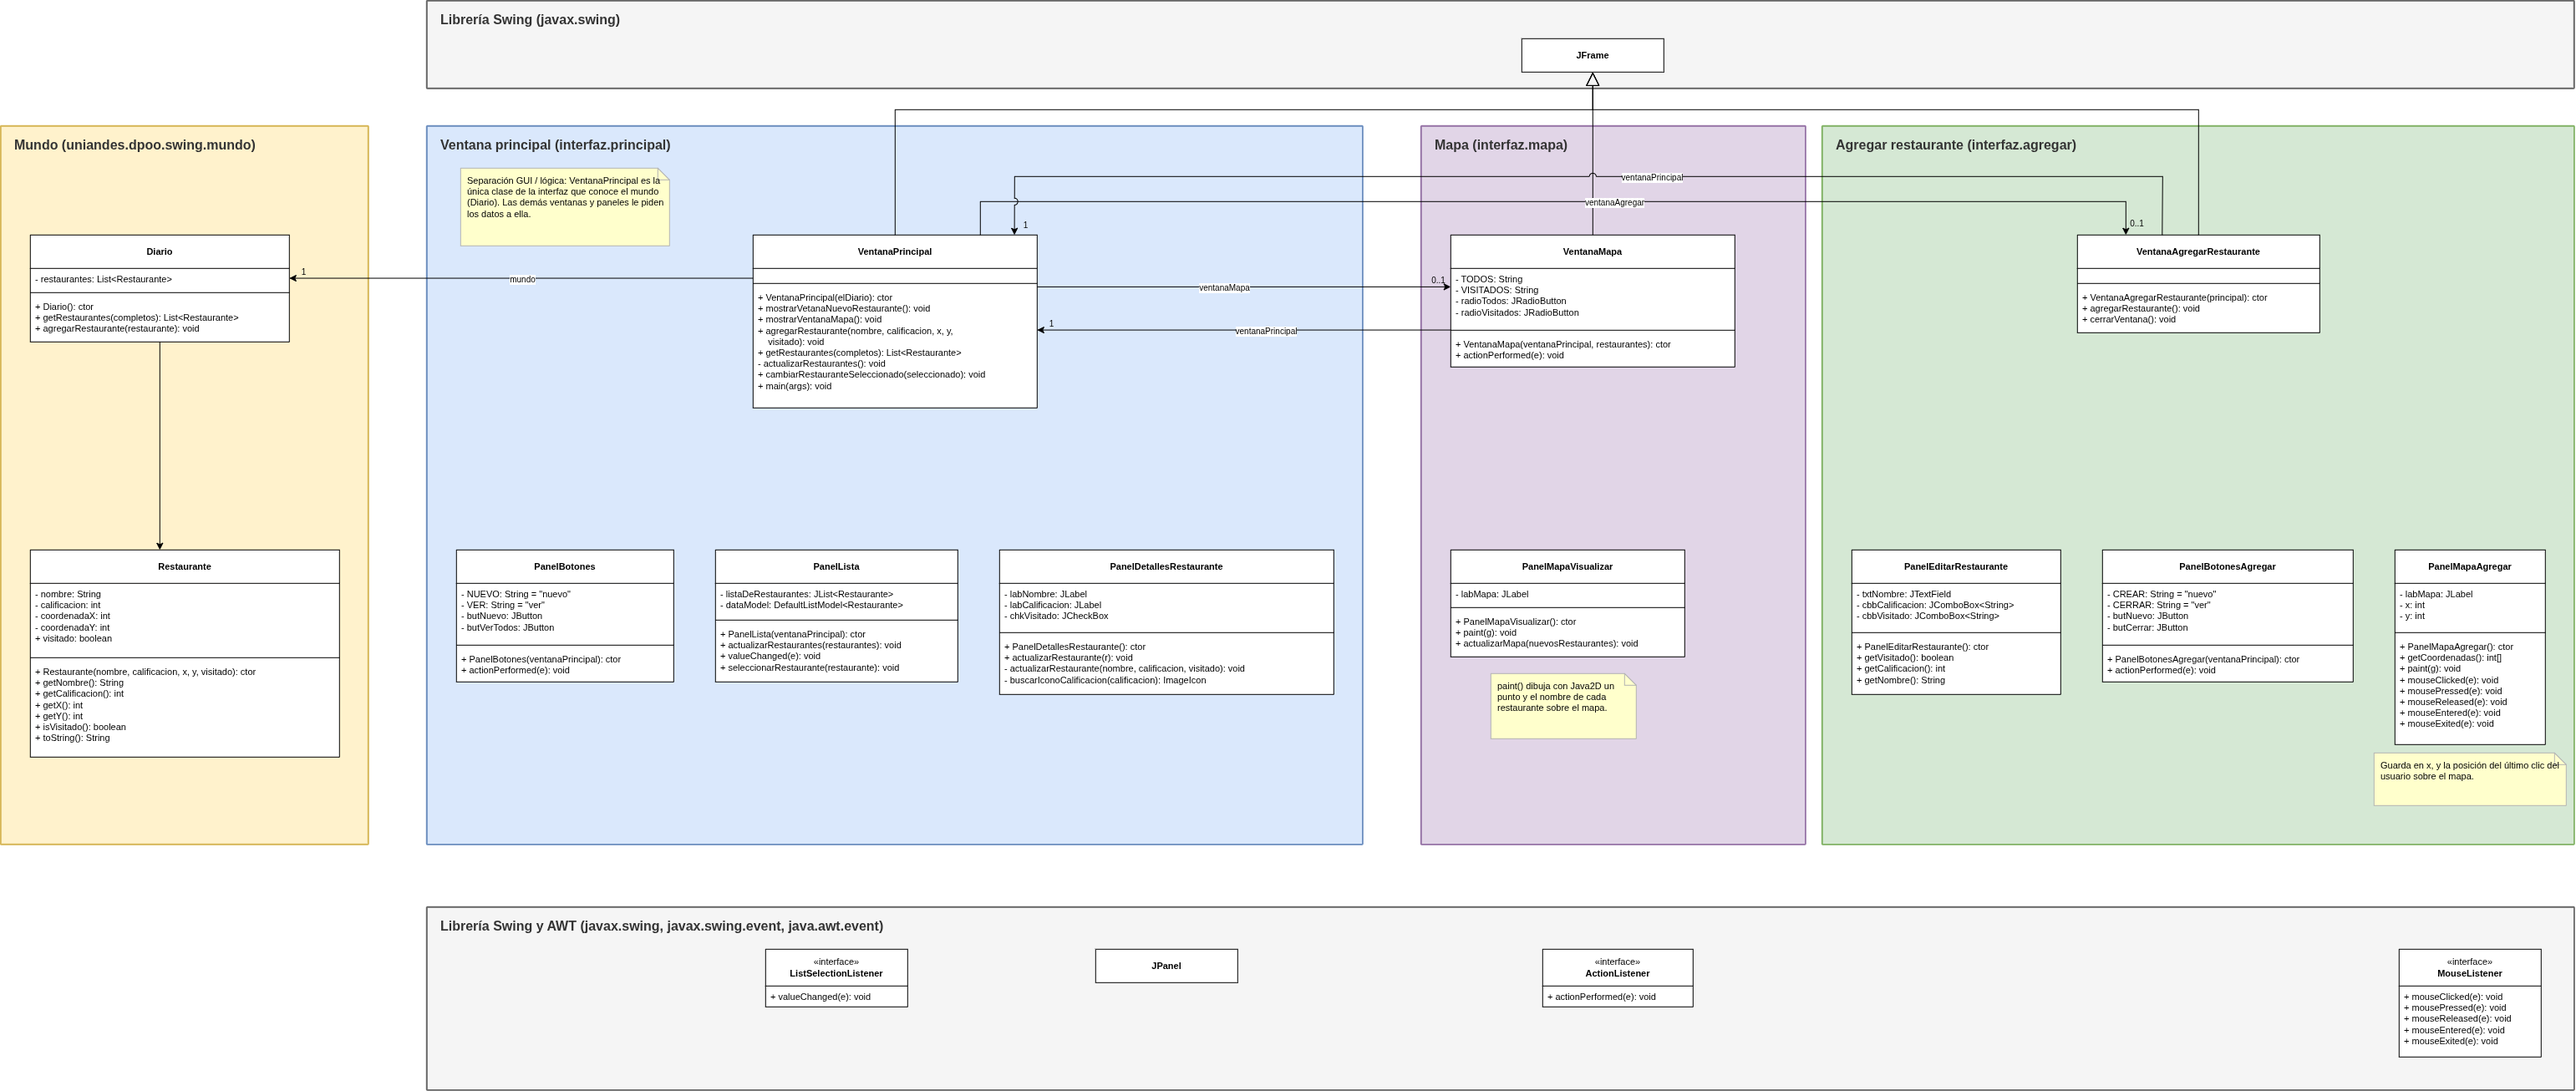
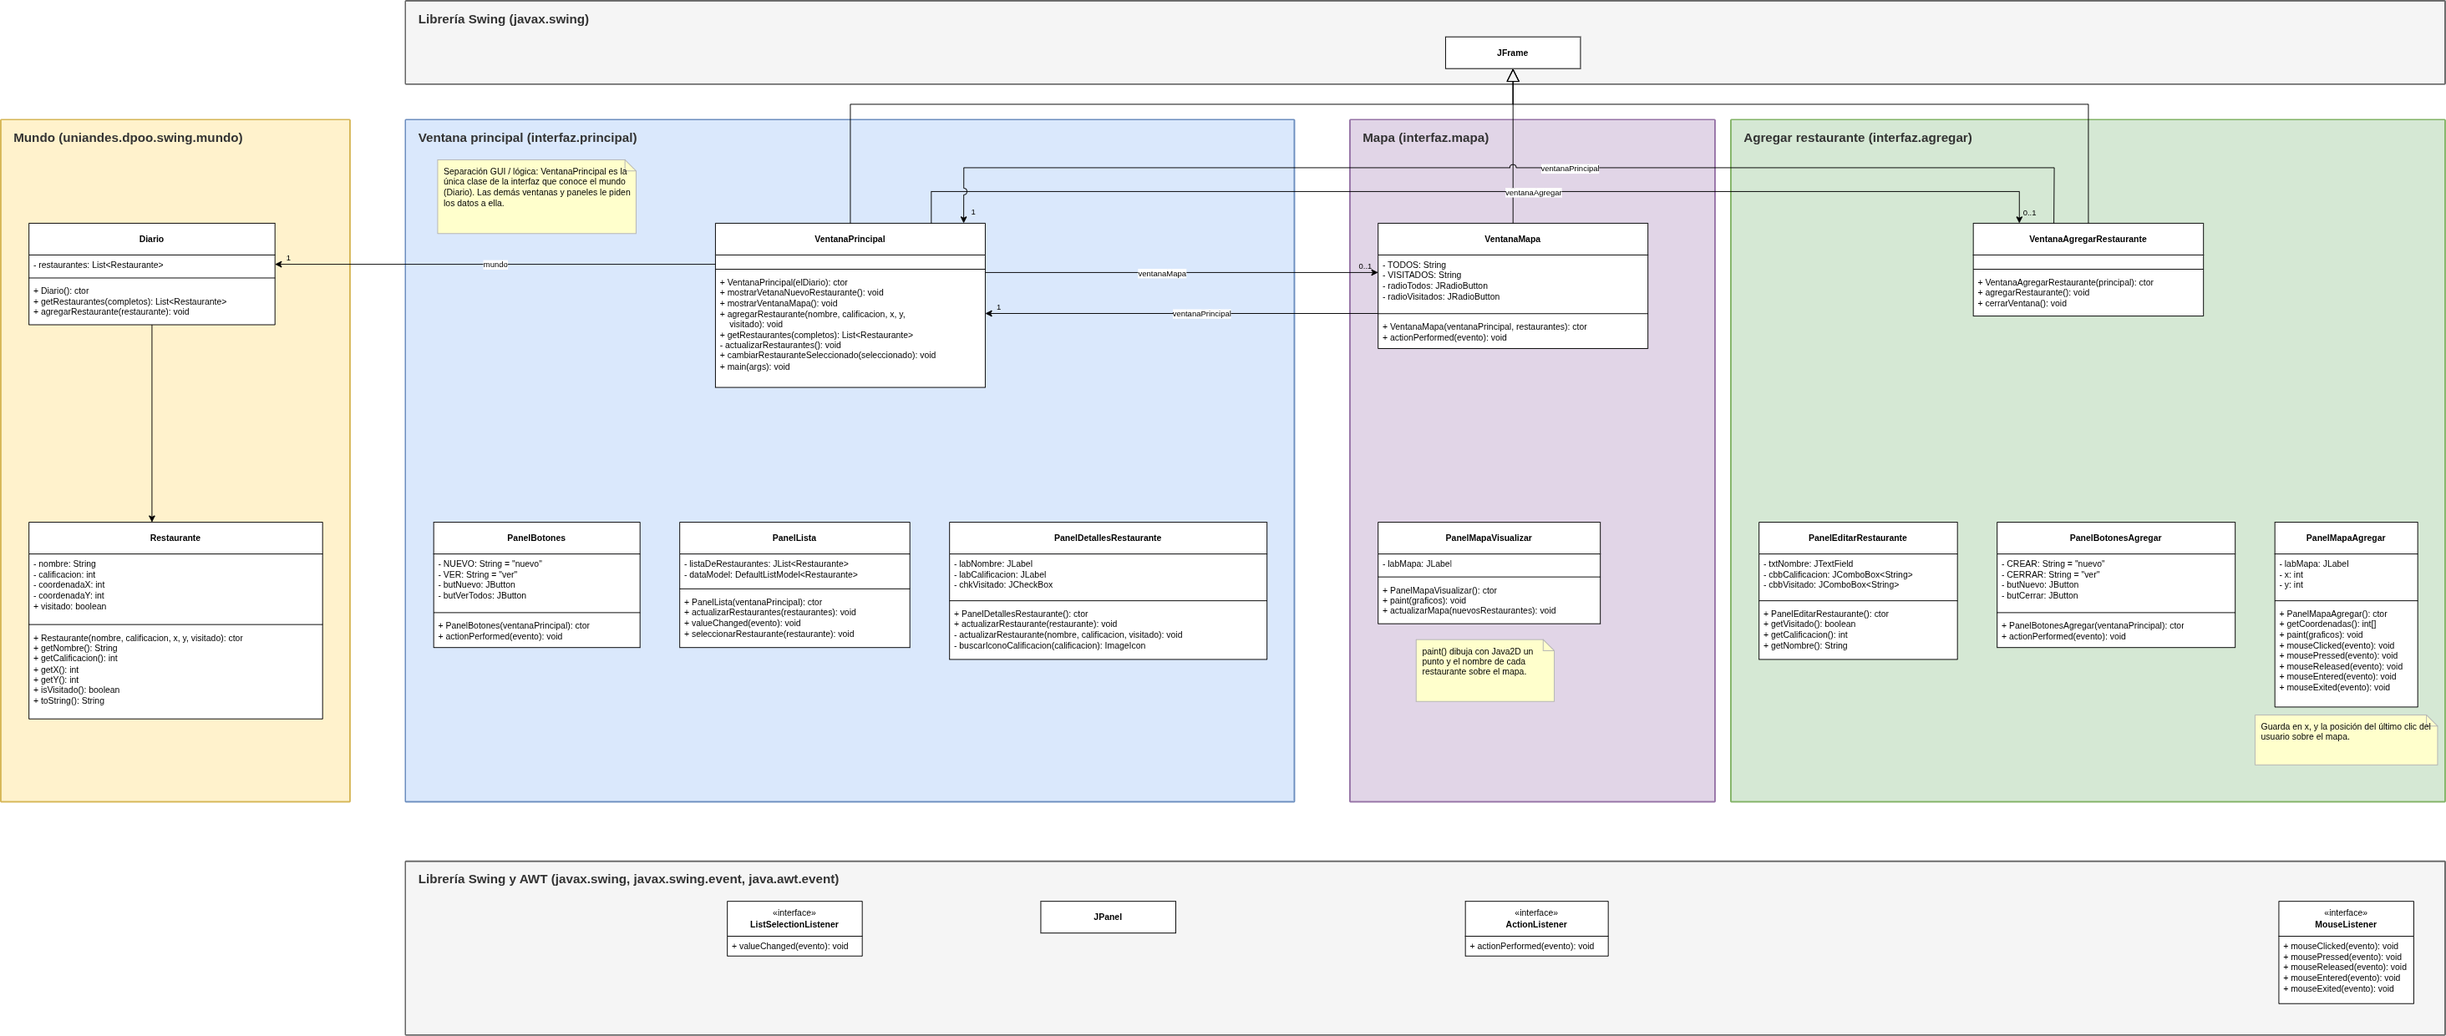
Cambios  Finales

diff --git a/src/uniandes/dpoo/swing/interfaz/agregar/PanelMapaAgregar.java b/src/uniandes/dpoo/swing/interfaz/agregar/PanelMapaAgregar.java
@@ -50,41 +50,41 @@ public class PanelMapaAgregar extends JPanel implements MouseListener
     }
 
     @Override
-    public void paint(Graphics g)
+    public void paint(Graphics graficos)
     {
-        super.paint(g);
+        super.paint(graficos);
 
         // Pinta un círculo rojo en la posición designada para el restaurante
-        Graphics2D g2d = (Graphics2D)g;
+        Graphics2D g2d = (Graphics2D)graficos;
         g2d.setColor(Color.red);
         g2d.fillOval(x - 3, y - 3, 7, 7);
     }
 
     @Override
-    public void mouseClicked(MouseEvent e)
+    public void mouseClicked(MouseEvent evento)
     {
-        this.x = e.getX();
-        this.y = e.getY();
+        this.x = evento.getX();
+        this.y = evento.getY();
         repaint();
     }
 
     @Override
-    public void mousePressed(MouseEvent e)
+    public void mousePressed(MouseEvent evento)
     {
     }
 
     @Override
-    public void mouseReleased(MouseEvent e)
+    public void mouseReleased(MouseEvent evento)
     {
     }
 
     @Override
-    public void mouseEntered(MouseEvent e)
+    public void mouseEntered(MouseEvent evento)
     {
     }
 
     @Override
-    public void mouseExited(MouseEvent e)
+    public void mouseExited(MouseEvent evento)
     {
     }
 

diff --git a/src/uniandes/dpoo/swing/interfaz/mapa/PanelMapaVisualizar.java b/src/uniandes/dpoo/swing/interfaz/mapa/PanelMapaVisualizar.java
@@ -34,22 +34,22 @@ public class PanelMapaVisualizar extends JPanel
     }
 
     @Override
-    public void paint(Graphics g)
+    public void paint(Graphics graficos)
     {
-        super.paint(g);
-        Graphics2D g2d = (Graphics2D)g;
+        super.paint(graficos);
+        Graphics2D g2d = (Graphics2D)graficos;
 
         if( restaurantes != null )
         {
             int dx = labMapa.getX( );
             int dy = labMapa.getY( );
             g2d.setColor( Color.RED );
-            for( Restaurante r : restaurantes )
+            for( Restaurante restaurante : restaurantes )
             {
-                int x = r.getX( ) + dx;
-                int y = r.getY( ) + dy;
+                int x = restaurante.getX( ) + dx;
+                int y = restaurante.getY( ) + dy;
                 g2d.fillOval( x - 3, y - 3, 7, 7 );
-                g2d.drawString( r.getNombre( ), x + 6, y + 4 );
+                g2d.drawString( restaurante.getNombre( ), x + 6, y + 4 );
             }
         }
     }

diff --git a/src/uniandes/dpoo/swing/interfaz/principal/PanelDetallesRestaurante.java b/src/uniandes/dpoo/swing/interfaz/principal/PanelDetallesRestaurante.java
@@ -67,11 +67,11 @@ public class PanelDetallesRestaurante extends JPanel
 
     /**
      * Actualiza los datos que se muestran de un restaurante
-     * @param r El restaurante que se debe mostrar
+     * @param restaurante El restaurante que se debe mostrar
      */
-    public void actualizarRestaurante(Restaurante r)
+    public void actualizarRestaurante(Restaurante restaurante)
     {
-        this.actualizarRestaurante(r.getNombre(), r.getCalificacion(), r.isVisitado());
+        this.actualizarRestaurante(restaurante.getNombre(), restaurante.getCalificacion(), restaurante.isVisitado());
     }
 
     /**

diff --git a/src/uniandes/dpoo/swing/interfaz/mapa/VentanaMapa.java b/src/uniandes/dpoo/swing/interfaz/mapa/VentanaMapa.java
@@ -81,9 +81,9 @@ public class VentanaMapa extends JFrame implements ActionListener
     }
 
     @Override
-    public void actionPerformed(ActionEvent e)
+    public void actionPerformed(ActionEvent evento)
     {
-        String comando = e.getActionCommand();
+        String comando = evento.getActionCommand();
         if(TODOS.equals(comando))
         {
             panelMapa.actualizarMapa(ventanaPrincipal.getRestaurantes(true));

diff --git a/src/uniandes/dpoo/swing/interfaz/principal/PanelBotones.java b/src/uniandes/dpoo/swing/interfaz/principal/PanelBotones.java
@@ -42,9 +42,9 @@ public class PanelBotones extends JPanel implements ActionListener
     }
 
     @Override
-    public void actionPerformed(ActionEvent e)
+    public void actionPerformed(ActionEvent evento)
     {
-        String comando = e.getActionCommand();
+        String comando = evento.getActionCommand();
         if(comando.equals(NUEVO))
         {
             ventanaPrincipal.mostrarVetanaNuevoRestaurante();

diff --git a/src/uniandes/dpoo/swing/interfaz/agregar/PanelBotonesAgregar.java b/src/uniandes/dpoo/swing/interfaz/agregar/PanelBotonesAgregar.java
@@ -46,9 +46,9 @@ public class PanelBotonesAgregar extends JPanel implements ActionListener
     }
 
     @Override
-    public void actionPerformed(ActionEvent e)
+    public void actionPerformed(ActionEvent evento)
     {
-        String comando = e.getActionCommand();
+        String comando = evento.getActionCommand();
         if(comando.equals(CREAR))
         {
             ventanaPrincipal.agregarRestaurante();

diff --git a/src/uniandes/dpoo/swing/interfaz/principal/PanelLista.java b/src/uniandes/dpoo/swing/interfaz/principal/PanelLista.java
@@ -71,7 +71,7 @@ public class PanelLista extends JPanel implements ListSelectionListener
     }
 
     @Override
-    public void valueChanged(ListSelectionEvent e)
+    public void valueChanged(ListSelectionEvent evento)
     {
         // Revisa cuál es el restaurante seleccionado actualmente
         Restaurante seleccionado = listaDeRestaurantes.getSelectedValue();
